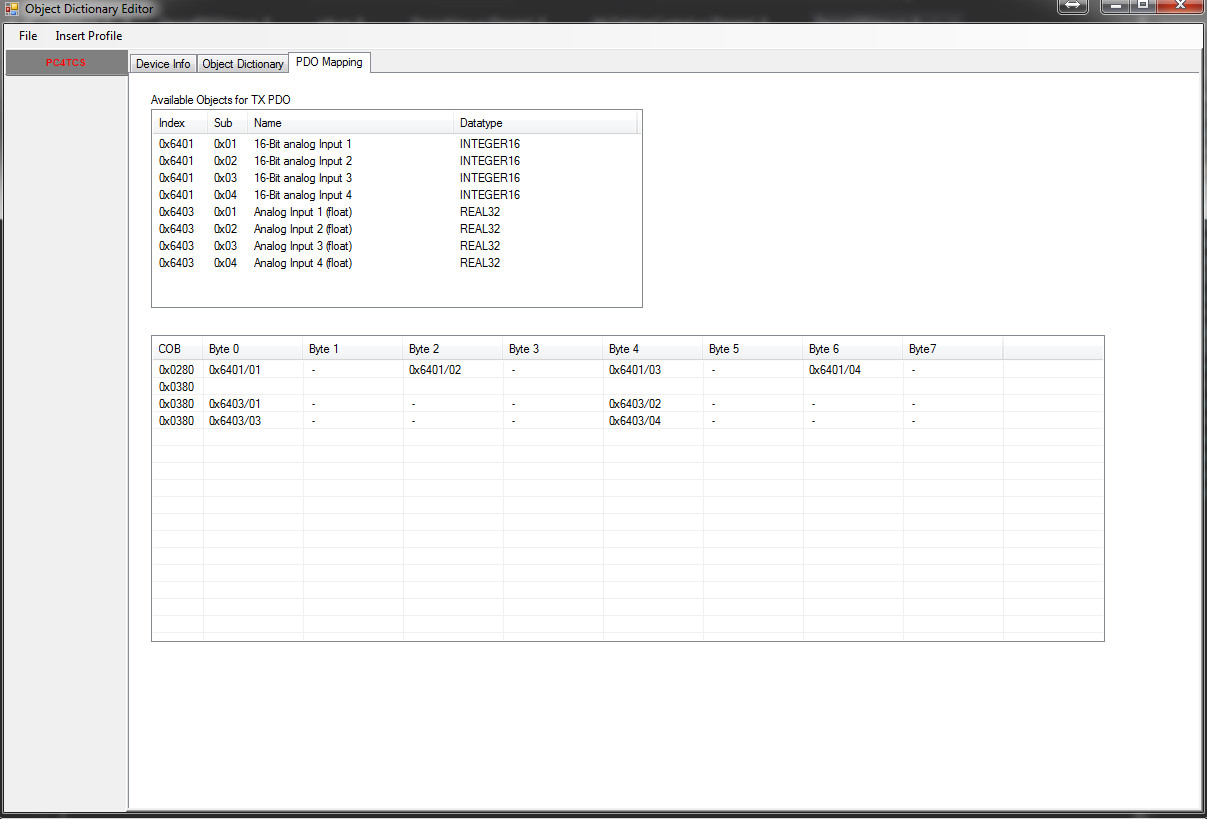
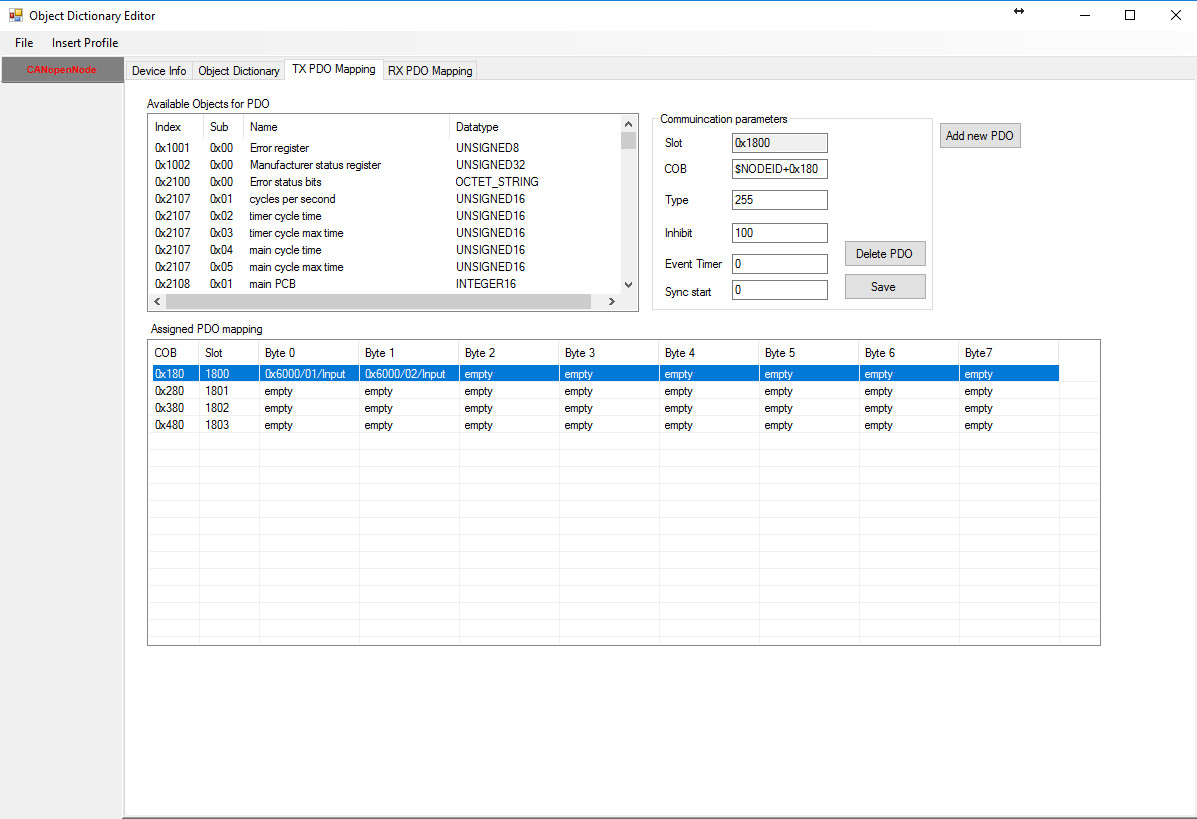
Update README.md and pictures to reflect the latest code changes and features

diff --git a/README.md b/README.md
@@ -7,8 +7,13 @@ With many thanks to the following contributors for spotting my mistakes and
 improving the code
 	* s-fuchs - https://github.com/s-fuchs
 
+Releases
+--------
 
 If you would like to try a pre compiled version, then head over to the [releases page!](https://github.com/robincornelius/libedssharp/releases)
+
+Current version 0.3.1 - This version is worthy of some serious testing, it may still crash or product some faulty export but I am using this in my own production now and for everthing I am testing it is so far OK.
+In the event of finding a crash or export fault, please open an issue with as much information as possible and even better if you can attach your xml or eds file that would be useful.
 
 
 Current Features
@@ -40,14 +45,9 @@ GUI
 * Create profiles that can be added to any project (just save the device xml file to the profiles/ 
 directory, only include the minimum number of objects that you want to auto insert) This will auto add to insert menu
 * Edit Device and File Info sections
-* Set TX PDO mappings
-* Set RX PDO mappings
+* Set RX/TX PDO mappings easily from dropdown lists of avaiable objects
+* Add and remove new PDO entries (communication paramaters and mapping) in a single button push
 
-Not finished/broken
--------------
-
-* Unit tests are totaly broken, due to massive rewrite/change of plan after
-tests were written.
 
 ![alt tag](pic1.jpg)
 ![alt tag](pic2.jpg)
